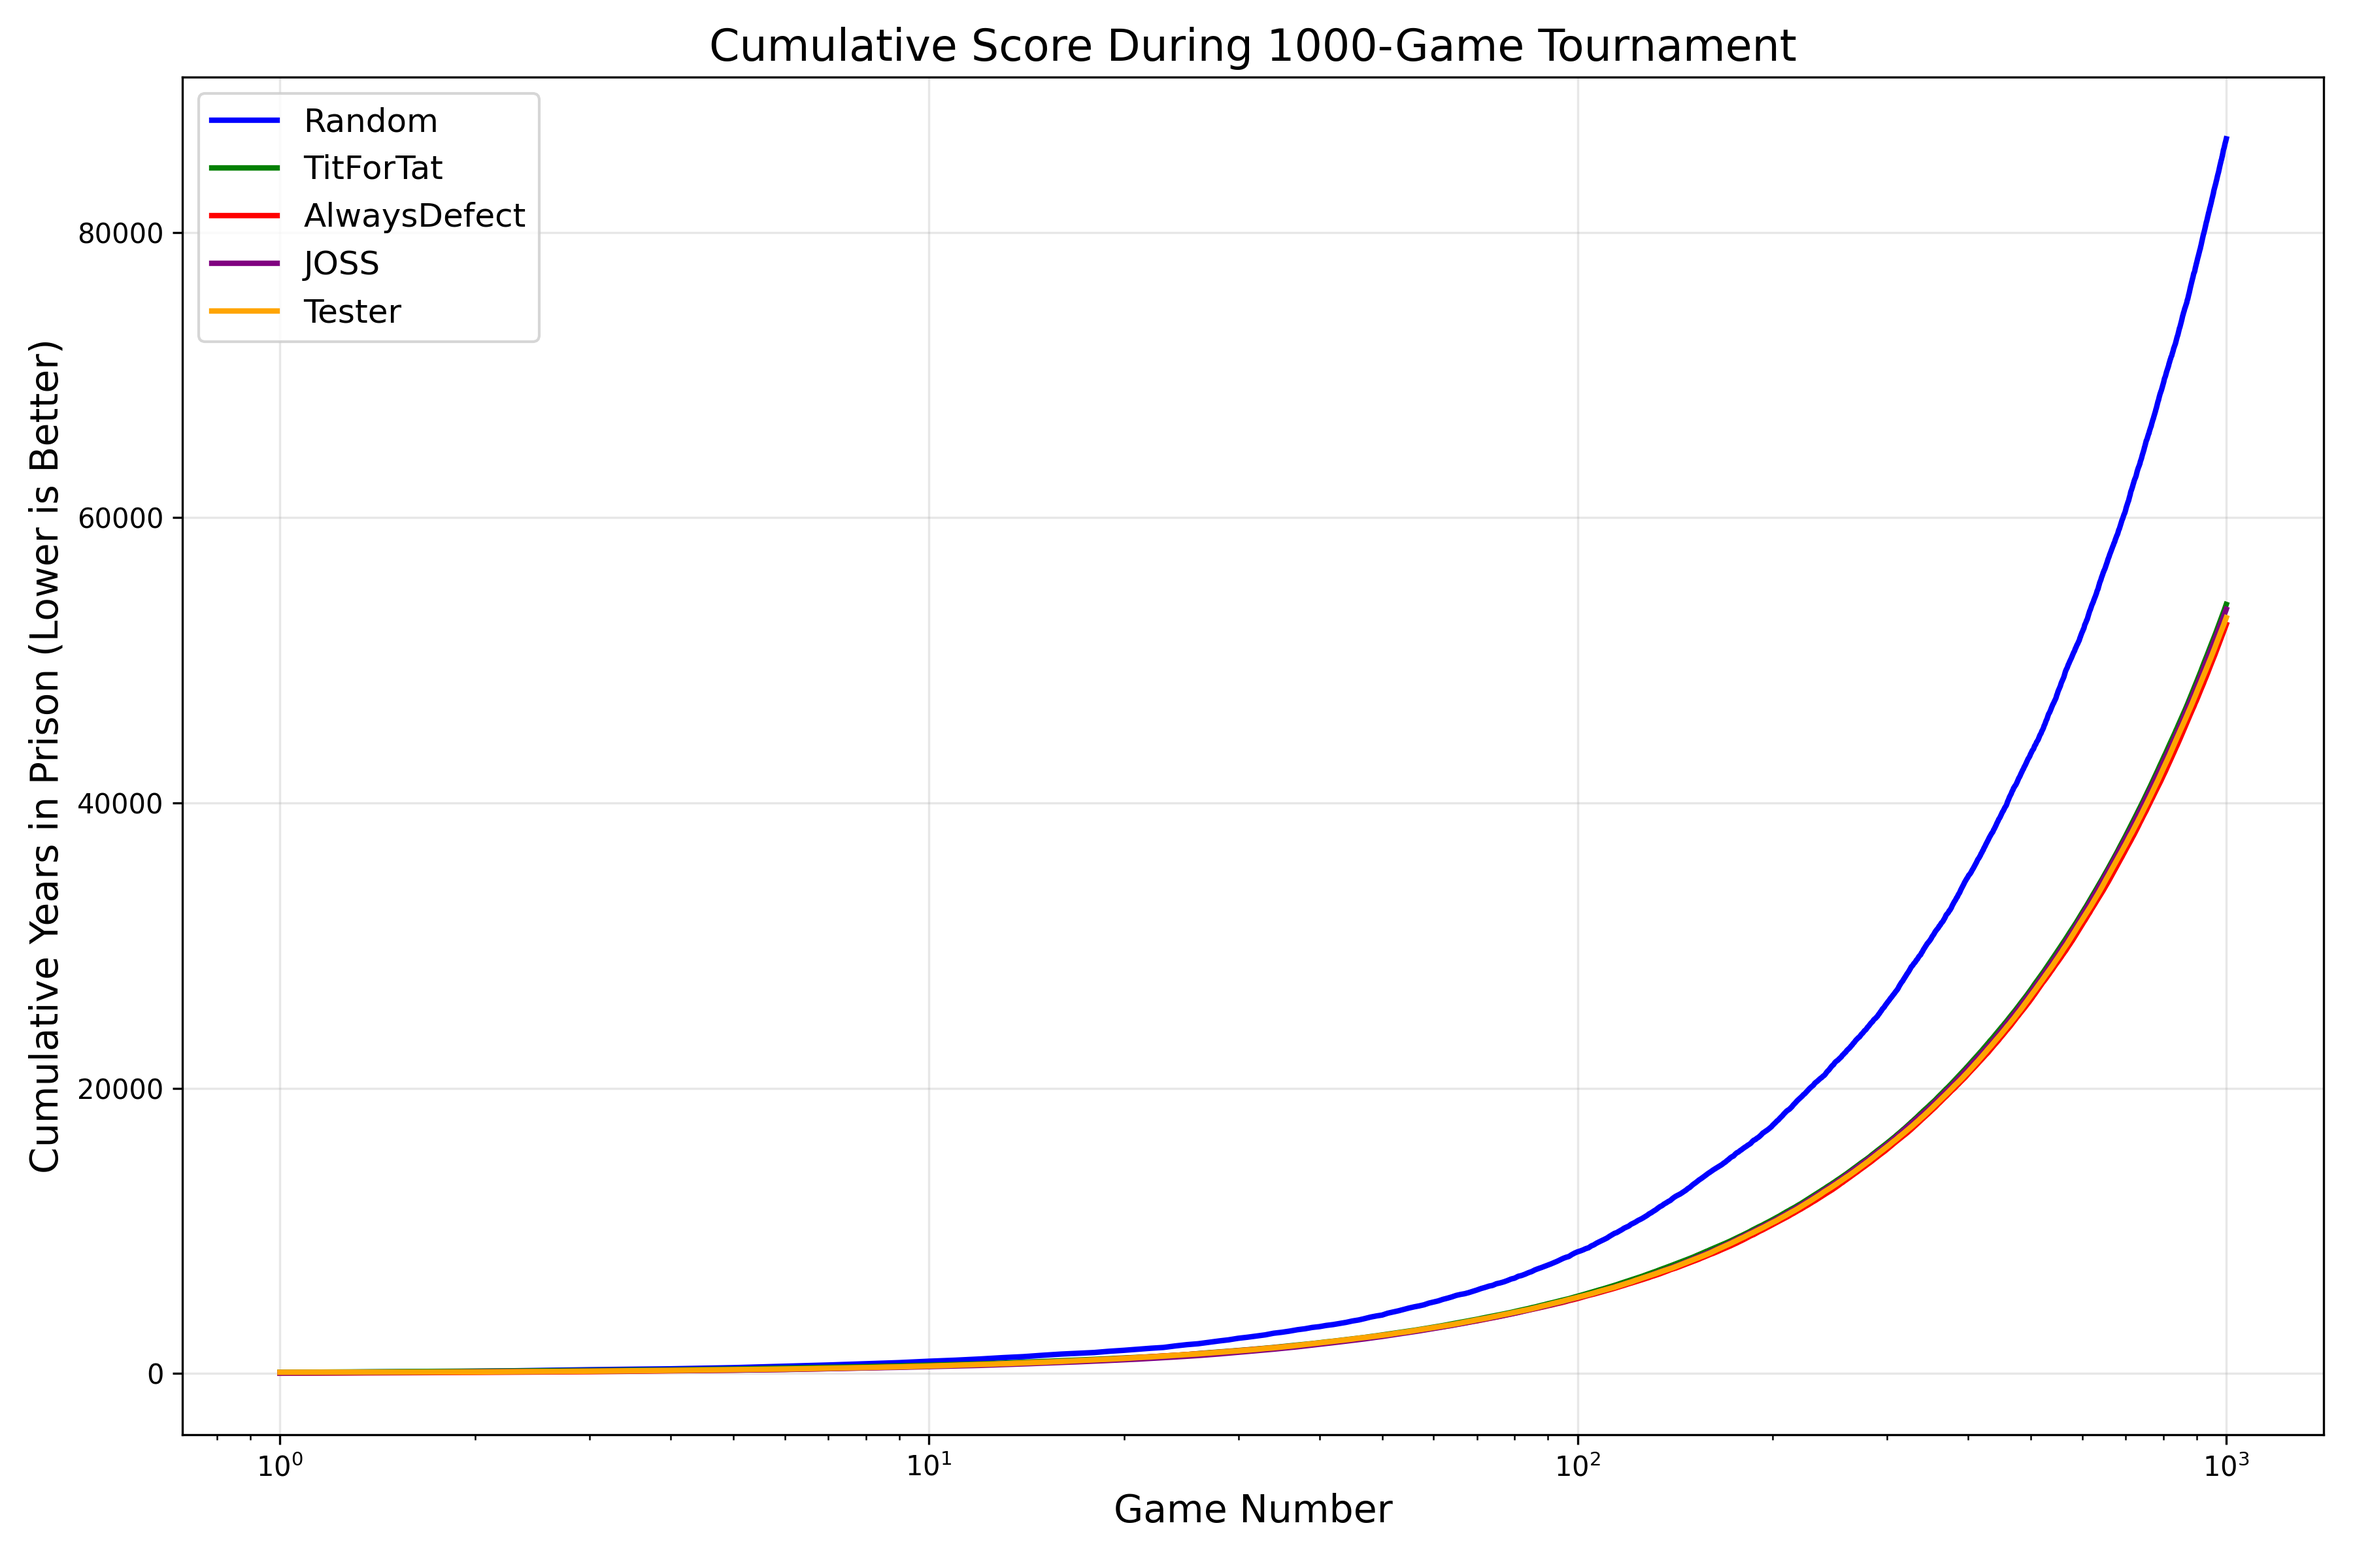
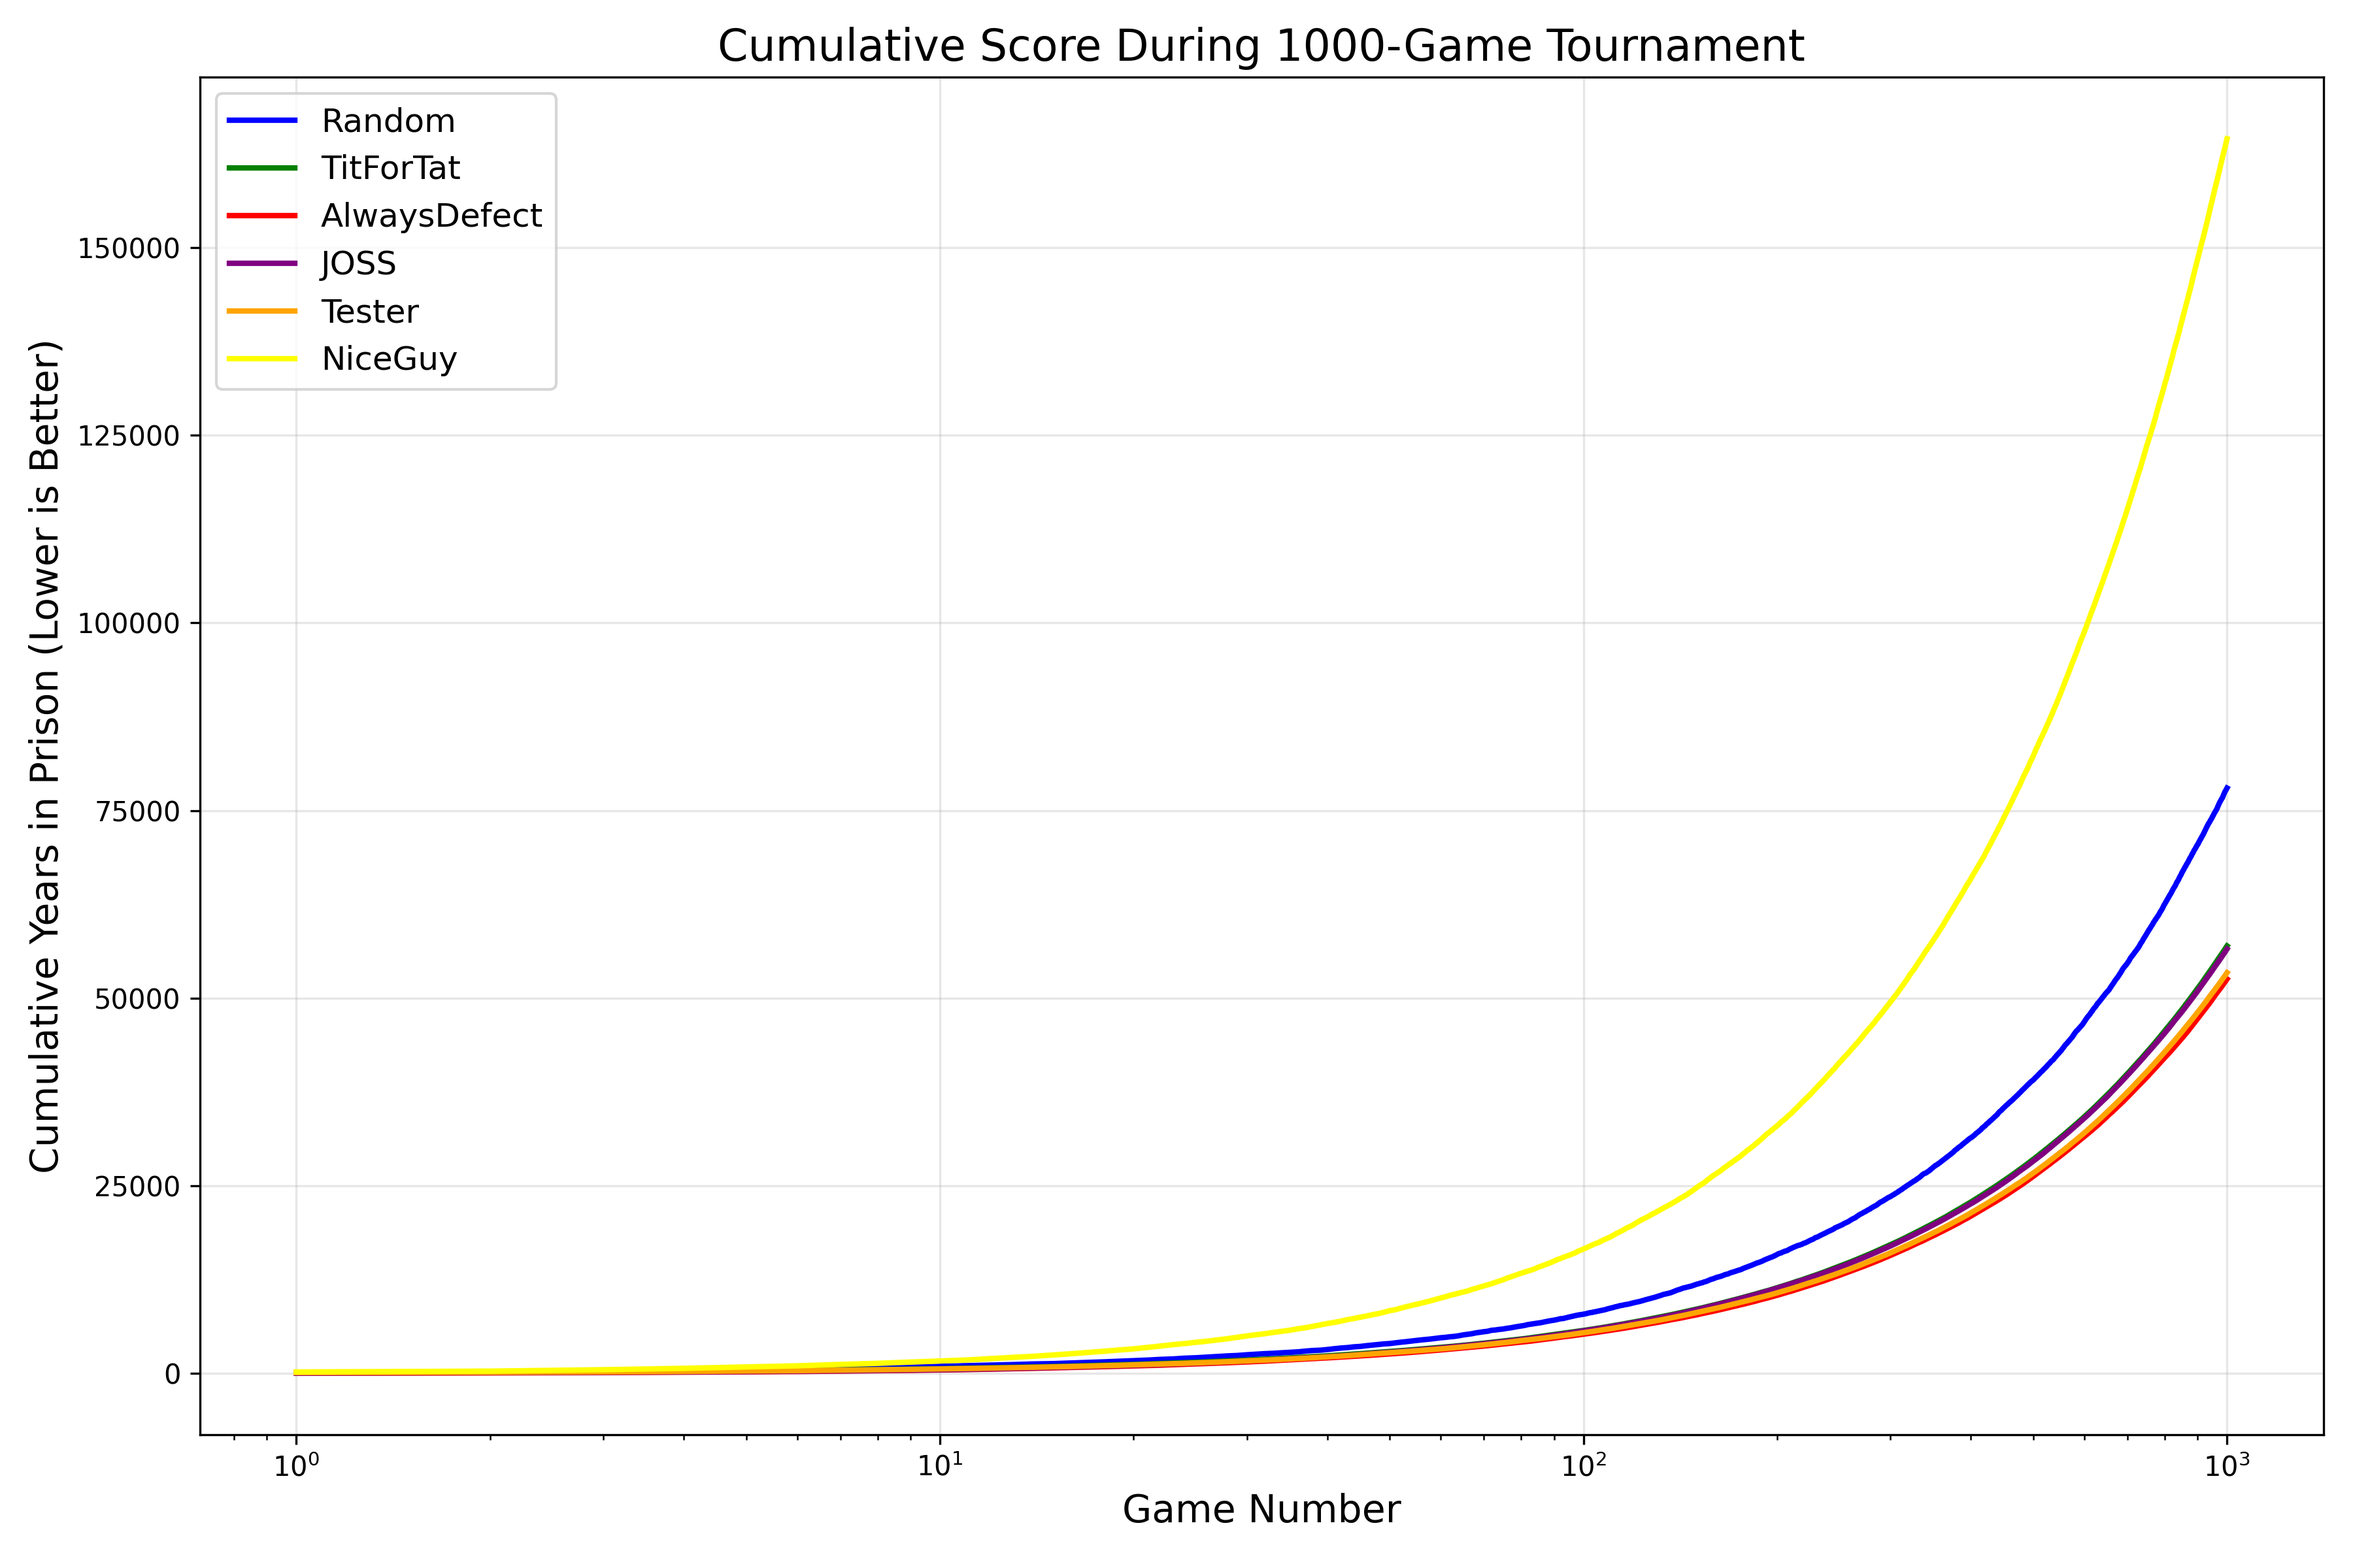
Add NiceGuy-always cooperate for testing

diff --git a/src/main.py b/src/main.py
@@ -1,6 +1,7 @@
 from players.random_player import Random
 from players.t4t import TIT_FOR_TAT
 from players.all_d import ALL_D
+from players.niceguy import NICE_GUY
 from players.joss import JOSS
 from players.tester import Tester
 from playground import PlayGround
@@ -106,7 +107,8 @@ def run_tournament(show_individual_games=False):
         (TIT_FOR_TAT(), "TitForTat"),
         (ALL_D(), "AlwaysDefect"),
         (JOSS(), "JOSS"),
-        (Tester(), "Tester")
+        (Tester(), "Tester"),
+        (NICE_GUY(), "NiceGuy")
     ]
     
     # Run a range of small and large tournament sizes
@@ -136,7 +138,8 @@ def run_tournament(show_individual_games=False):
                 (TIT_FOR_TAT(), "TitForTat"),
                 (ALL_D(), "AlwaysDefect"),
                 (JOSS(), "JOSS"),
-                (Tester(), "Tester")
+                (Tester(), "Tester"),
+                 (NICE_GUY(), "NiceGuy")
             ]
             
             scores, details, strategy_scores_by_game = tournament_round(
@@ -194,7 +197,8 @@ def visualize_tournament_results(all_tournament_scores, all_tournament_details):
         'TitForTat': 'green',
         'AlwaysDefect': 'red',
         'JOSS': 'purple',
-        'Tester': 'orange'
+        'Tester': 'orange',
+        'NiceGuy': 'yellow'
     }
     
     # Extract data for plotting

diff --git a/src/players/niceguy.py b/src/players/niceguy.py
@@ -1,0 +1,14 @@
+from players.base_player import BasePlayer
+
+class NICE_GUY(BasePlayer):
+    def initial_action(self):
+        # Always start by defecting
+        return "cooperate"
+    
+    def get_action(self, opponents_history: list):
+        # Always cooperate regardless of opponent's history
+        action = "cooperate"
+        
+        self.past_actions.append(action)
+        self.num_games += 1
+        return action
